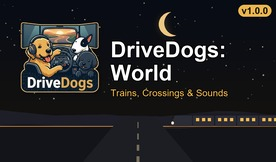
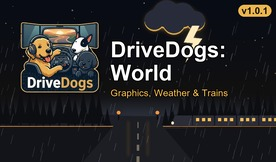
show the graphics, weather and trains of 1.0 on the cover and release it as 1.0.1
The cover still showed only v0.1.0's trains. The new scene adds a storm cloud with lightning, rain, pine
treelines and a wet road at the level crossing, in the same layout as the other DriveDogs covers.

diff --git a/tools/generate_cover.py b/tools/generate_cover.py
@@ -5,8 +5,9 @@ build copies it into the archive, where manifest.sii's `icon:` field references 
 JPEG.
 
 Same layout and gold/amber palette as the other DriveDogs covers (logo left, title block right, road, amber
-version badge); the World motif is a night landscape: stars and a crescent moon, rolling hills, and a train
-with lit windows approaching a level crossing.
+version badge); the World motif is a stormy night: a storm cloud with a lightning bolt, rain, pine treelines
+against a horizon glow, and a train with lit windows approaching a level crossing whose lamps reflect on the
+wet road.
 
 Composited at 4x (1104x648) then downscaled for anti-aliasing. The version badge is read from megapack.yaml's
 package.version, so rerun this before every build that bumps the version.
@@ -34,12 +35,18 @@ BG_BOTTOM = (24, 20, 14)
 TITLE_COLOR = (255, 255, 255)
 SUBTITLE_COLOR = (255, 196, 84)
 STAR_COLOR = (255, 236, 200)
-MOON_COLOR = (255, 214, 140)
+HORIZON_GLOW = (90, 105, 140)
+CLOUD_COLOR = (40, 44, 58)
+CLOUD_RIM = (255, 196, 84)
+BOLT_COLOR = (255, 236, 190)
 HILL_FAR = (30, 30, 40)
 HILL_NEAR = (19, 19, 26)
+TREE_COLOR = (12, 14, 18)
 TRAIN_COLOR = (44, 44, 54)
 WINDOW_COLOR = (255, 196, 84)
 RAIL_COLOR = (255, 170, 70)
+LAMP_COLOR = (255, 150, 60)
+RAIN_COLOR = (180, 190, 210)
 BADGE_COLOR = (255, 196, 84)
 BADGE_TEXT_COLOR = (20, 16, 10)
 
@@ -54,6 +61,13 @@ def read_version():
     return str(version)
 
 
+def composite(img, *layers):
+    base = img.convert("RGBA")
+    for layer in layers:
+        base = Image.alpha_composite(base, layer)
+    return base.convert("RGB")
+
+
 def make_background(size):
     w, h = size
     img = Image.new("RGB", size, BG_BOTTOM)
@@ -65,28 +79,56 @@ def make_background(size):
     return img
 
 
-def add_sky(img):
-    """Stars (fixed seed, so the cover is reproducible) and a glowing crescent moon top-centre, clear of the
-    logo on the left and the version badge on the right."""
+def add_stars(img):
+    """A few stars between the clouds (fixed seed, so the cover is reproducible)."""
     w, h = img.size
     rng = random.Random(1061306287)
     layer = Image.new("RGBA", img.size, (0, 0, 0, 0))
     draw = ImageDraw.Draw(layer)
-    for _ in range(90):
+    for _ in range(40):
         x, y = rng.uniform(0, w), rng.uniform(0, h * HORIZON * 0.8)
         r = rng.choice((1, 1, 1, 2, 2, 3))
-        draw.ellipse([x - r, y - r, x + r, y + r], fill=(*STAR_COLOR, rng.randint(60, 180)))
+        draw.ellipse([x - r, y - r, x + r, y + r], fill=(*STAR_COLOR, rng.randint(50, 150)))
+    return composite(img, layer)
 
-    cx, cy, r = w * 0.62, h * 0.15, h * 0.075
-    moon = Image.new("RGBA", img.size, (0, 0, 0, 0))
-    md = ImageDraw.Draw(moon)
-    md.ellipse([cx - r, cy - r, cx + r, cy + r], fill=(*MOON_COLOR, 235))
-    md.ellipse([cx - r * 0.55, cy - r * 1.1, cx + r * 1.45, cy + r * 0.9], fill=(0, 0, 0, 0))
-    glow = moon.filter(ImageFilter.GaussianBlur(radius=h * 0.03))
-    base = img.convert("RGBA")
-    for part in (layer, glow, moon):
-        base = Image.alpha_composite(base, part)
-    return base.convert("RGB")
+
+def add_horizon_glow(img):
+    """Soft glow along the horizon so the pine silhouettes read against the sky."""
+    w, h = img.size
+    layer = Image.new("RGBA", img.size, (0, 0, 0, 0))
+    ImageDraw.Draw(layer).ellipse([-w * 0.1, h * (HORIZON - 0.16), w * 1.1, h * (HORIZON + 0.06)],
+                                  fill=(*HORIZON_GLOW, 110))
+    return composite(img, layer.filter(ImageFilter.GaussianBlur(radius=h * 0.07)))
+
+
+def puff_layer(size, puffs, color, alpha=255):
+    layer = Image.new("RGBA", size, (0, 0, 0, 0))
+    draw = ImageDraw.Draw(layer)
+    for cx, cy, r in puffs:
+        draw.ellipse([cx - r, cy - r, cx + r, cy + r], fill=(*color, alpha))
+    return layer
+
+
+def add_storm(img):
+    """Storm cloud top-centre, clear of the logo on the left and the version badge on the right, lit amber from
+    below, with a lightning bolt dropping from its right side and the bolt's flash."""
+    w, h = img.size
+    cx, cy, s = w * 0.63, h * 0.10, h * 0.075
+    puffs = [(cx - s * 1.6, cy + s * 0.3, s * 0.8), (cx - s * 0.6, cy - s * 0.2, s * 1.1),
+             (cx + s * 0.7, cy - s * 0.1, s * 1.0), (cx + s * 1.8, cy + s * 0.35, s * 0.75),
+             (cx, cy + s * 0.5, s * 0.9)]
+    rim = puff_layer(img.size, [(x, y + s * 0.12, r) for x, y, r in puffs], CLOUD_RIM, 200)
+    body = puff_layer(img.size, puffs, CLOUD_COLOR)
+
+    bx, by, k = cx + s * 1.5, cy + s * 0.8, s * 1.5
+    bolt = Image.new("RGBA", img.size, (0, 0, 0, 0))
+    ImageDraw.Draw(bolt).polygon([(bx, by), (bx - k * 0.45, by + k * 0.9), (bx + k * 0.05, by + k * 0.95),
+                                  (bx - k * 0.35, by + k * 2.0), (bx + k * 0.55, by + k * 0.7),
+                                  (bx + k * 0.05, by + k * 0.65), (bx + k * 0.4, by)],
+                                 fill=(*BOLT_COLOR, 255))
+    flash = bolt.filter(ImageFilter.GaussianBlur(radius=h * 0.06))
+    return composite(img, flash, flash, rim.filter(ImageFilter.GaussianBlur(radius=h * 0.02)), rim, body,
+                     bolt.filter(ImageFilter.GaussianBlur(radius=h * 0.008)), bolt)
 
 
 def add_hills(img):
@@ -102,6 +144,32 @@ def add_hills(img):
         pts.append((w, h))
         draw.polygon(pts, fill=color)
     return img
+
+
+def draw_pine(draw, x, base_y, height):
+    width = height * 0.42
+    for k in range(3):
+        top = base_y - height * (1 - k * 0.25)
+        bottom = base_y - height * (0.35 - k * 0.12)
+        hw = width * (0.55 + k * 0.22) / 2
+        draw.polygon([(x, top), (x - hw, bottom), (x + hw, bottom)], fill=(*TREE_COLOR, 255))
+    draw.rectangle([x - width * 0.05, base_y - height * 0.15, x + width * 0.05, base_y], fill=(*TREE_COLOR, 255))
+
+
+def add_trees(img):
+    """Pine treelines on both flanks of the road, smaller next to it, standing on the rail line."""
+    w, h = img.size
+    rng = random.Random(4)
+    layer = Image.new("RGBA", img.size, (0, 0, 0, 0))
+    draw = ImageDraw.Draw(layer)
+    base_y = h * (HORIZON + 0.005)
+    for x0, x1 in ((0.0, 0.40), (0.60, 1.02)):
+        x = w * x0
+        while x < w * x1:
+            near_road = min(abs(x - w * 0.40), abs(x - w * 0.60)) < w * 0.04
+            draw_pine(draw, x, base_y, h * rng.uniform(0.15, 0.24) * (0.6 if near_road else 1.0))
+            x += w * rng.uniform(0.022, 0.035)
+    return composite(img, layer)
 
 
 def add_train(img):
@@ -133,13 +201,26 @@ def add_train(img):
                 td.rectangle([wx, top + car_h * 0.25, wx + ww, top + car_h * 0.55], fill=(*WINDOW_COLOR, 230))
         x += car_w + gap
     window_glow = train.filter(ImageFilter.GaussianBlur(radius=h * 0.008))
-    base = img.convert("RGBA")
-    for part in (glow, layer, window_glow, train):
-        base = Image.alpha_composite(base, part)
-    return base.convert("RGB")
+    return composite(img, glow, layer, window_glow, train)
+
+
+def add_crossing_lamps(img):
+    """Two amber level-crossing lamps on posts either side of the road at the rail line."""
+    w, h = img.size
+    rail_y = h * HORIZON
+    posts = Image.new("RGBA", img.size, (0, 0, 0, 0))
+    lamps = Image.new("RGBA", img.size, (0, 0, 0, 0))
+    dp, dl = ImageDraw.Draw(posts), ImageDraw.Draw(lamps)
+    r = h * 0.011
+    for xf in (0.43, 0.57):
+        x, lamp_y = w * xf, rail_y - h * 0.085
+        dp.rectangle([x - w * 0.002, rail_y - h * 0.08, x + w * 0.002, rail_y + h * 0.01], fill=(10, 10, 12, 255))
+        dl.ellipse([x - r, lamp_y - r, x + r, lamp_y + r], fill=(*LAMP_COLOR, 255))
+    return composite(img, posts, lamps.filter(ImageFilter.GaussianBlur(radius=h * 0.02)), lamps)
 
 
 def add_road(img):
+    """Road with a dashed centre line and the crossing lamps' amber reflections on the wet asphalt."""
     w, h = img.size
     draw = ImageDraw.Draw(img)
     road_top_y = int(h * 0.72)
@@ -150,7 +231,25 @@ def add_road(img):
         y0, y1 = int(h - (h - road_top_y) * t0), int(h - (h - road_top_y) * t1)
         x0, x1 = w * 0.50 - dash_w * (1 - t0) * 0.5, w * 0.50 + dash_w * (1 - t0) * 0.5
         draw.rectangle([x0, y1, x1, y0], fill=(120, 110, 90))
-    return img
+
+    layer = Image.new("RGBA", img.size, (0, 0, 0, 0))
+    ld = ImageDraw.Draw(layer)
+    for xf in (0.465, 0.535):
+        ld.rectangle([w * xf - w * 0.004, h * 0.74, w * xf + w * 0.004, h * 0.97], fill=(*RAIL_COLOR, 120))
+    return composite(img, layer.filter(ImageFilter.GaussianBlur(radius=h * 0.012)))
+
+
+def add_rain(img):
+    """Faint slanted rain streaks over the whole scene (under the logo and text)."""
+    w, h = img.size
+    rng = random.Random(270)
+    layer = Image.new("RGBA", img.size, (0, 0, 0, 0))
+    draw = ImageDraw.Draw(layer)
+    for _ in range(160):
+        x, y = rng.uniform(0, w * 1.1), rng.uniform(h * 0.12, h)
+        length = rng.uniform(h * 0.035, h * 0.07)
+        draw.line([(x, y), (x - 0.25 * length, y + length)], fill=(*RAIN_COLOR, rng.randint(35, 80)), width=2)
+    return composite(img, layer)
 
 
 def paste_logo(img):
@@ -195,7 +294,7 @@ def add_text(img):
     x_start = w * 0.40
     max_width = w * 0.97 - x_start
     title_lines = ["DriveDogs:", "World"]
-    subtitle = "Trains, Crossings & Sounds"
+    subtitle = "Graphics, Weather & Trains"
 
     title_size = int(h * 0.135)
     for line in title_lines:
@@ -232,10 +331,15 @@ def add_version_badge(img, version):
 def main():
     version = read_version()
     img = make_background(CANVAS_SIZE)
-    img = add_sky(img)
+    img = add_stars(img)
+    img = add_horizon_glow(img)
+    img = add_storm(img)
     img = add_hills(img)
+    img = add_trees(img)
     img = add_train(img)
+    img = add_crossing_lamps(img)
     img = add_road(img)
+    img = add_rain(img)
     img = paste_logo(img)
     img = add_text(img)
     img = add_version_badge(img, version)

diff --git a/README.md b/README.md
@@ -4,7 +4,7 @@ ETS2 mod for the world around the road, built as a local **megapack** with the `
 `ets2-mod-developer` agent profile. This repo holds only configuration and tools. The mod is built from the
 extracted base game, subscribed Workshop items and one local archive. It is never redistributed.
 
-Current content (v1.0.0, ETS2 1.61):
+Current content (v1.0.1, ETS2 1.61):
 
 - **Graphics** from Juninho944 (Weather_3.9, Asphalt_improved, grass_4.0_lite, tree_improved_4k), DIOX (Beautiful
   Nature) and Darkcaptain (Realistic Rain), in the maintainer's load order.
